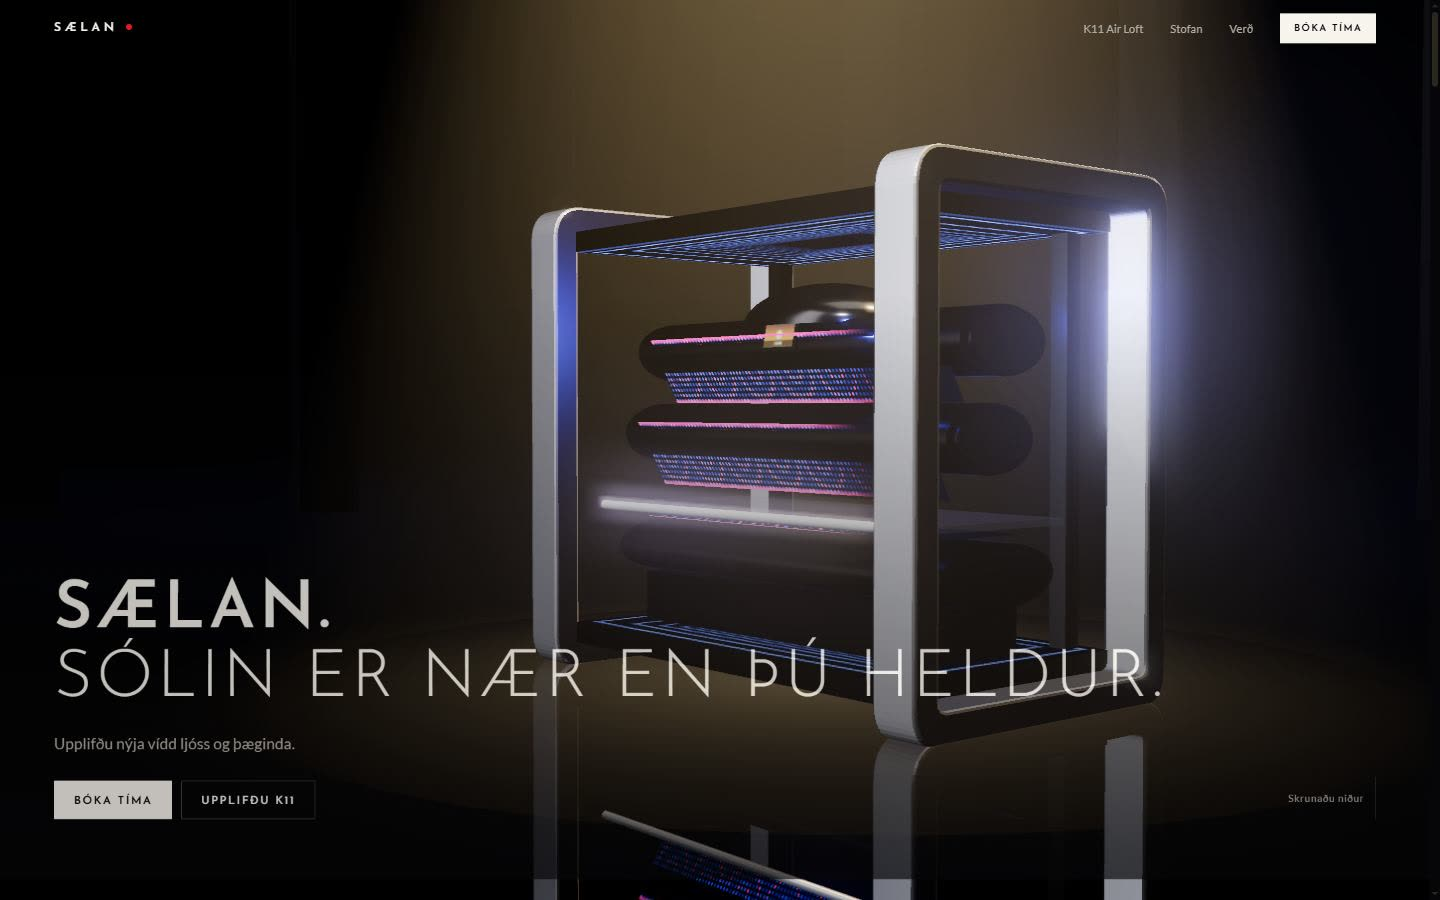
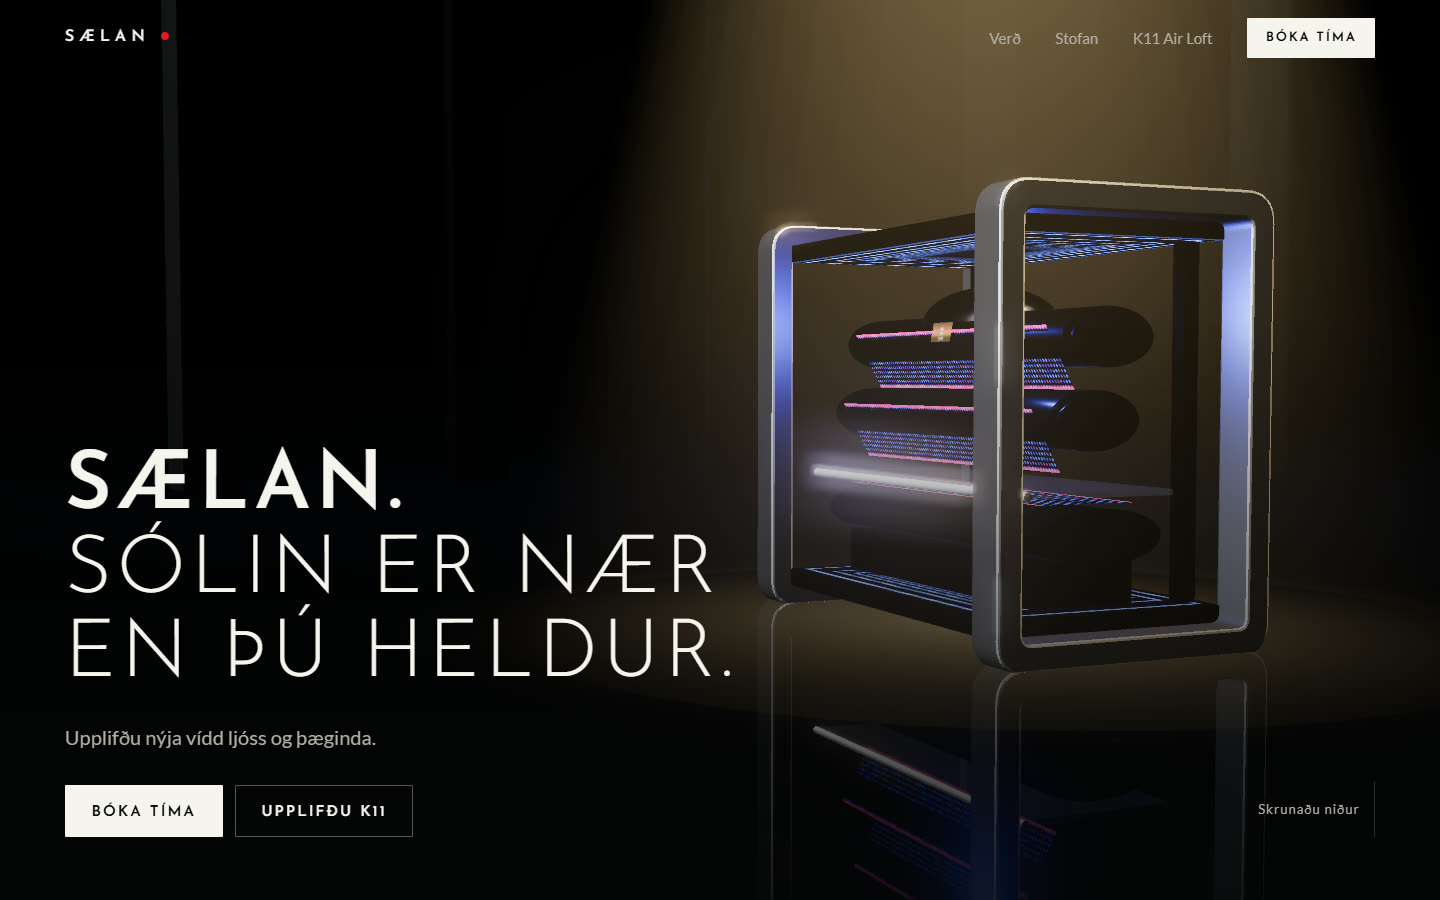
Saelan: ny utgafa af siðunni og ny forskodunarmynd

diff --git a/public/saelan/index.html b/public/saelan/index.html
@@ -56,7 +56,9 @@ html.past .top,html:not(.live) .top{background:rgba(6,6,8,.9)}
 
 main{position:relative;z-index:3}
 .scene{position:relative;min-height:100svh;display:grid;padding:7rem var(--pad) 4rem}
-html.live .stage{height:1000vh}
+html.live .stage-a{height:260vh}
+html.live .stage-b{height:850vh}
+.bridge{text-align:left;padding-bottom:clamp(4rem,9vh,7rem)}
 html.live .scene{position:fixed;inset:0;min-height:0;opacity:0;visibility:hidden;pointer-events:none;will-change:opacity,transform}
 html.live .scene.on{visibility:visible}
 html.live .scene.hit{pointer-events:auto}
@@ -138,50 +140,37 @@ footer a{text-decoration:none}footer a:hover{color:var(--ink);text-decoration:un
 <header class="top">
   <a class="mark" href="#" aria-label="Sælan, forsíða">Sælan<i></i></a>
   <nav aria-label="Aðalvalmynd">
-    <a class="link" href="#k11">K11 Air Loft</a>
-    <a class="link" href="#stofan">Stofan</a>
     <a class="link" href="#verd">Verð</a>
+    <a class="link" href="#stofan">Stofan</a>
+    <a class="link" href="#k11">K11 Air Loft</a>
     <a class="btn primary small" href="https://noona.is/saelansolbadsstofa" rel="noopener">Bóka tíma</a>
   </nav>
 </header>
 
 <main>
-  <div class="stage">
+  <div class="stage stage-a">
     <section class="scene s-hero" data-scene="hero">
       <h1 class="display"><span><b>Sælan.</b></span><span>Sólin er nær en þú heldur.</span></h1>
       <p class="sub">Upplifðu nýja vídd ljóss og þæginda.</p>
       <div class="cta">
         <a class="btn primary" href="https://noona.is/saelansolbadsstofa" rel="noopener">Bóka tíma</a>
-        <a class="btn ghost" href="#k11">Upplifðu K11</a>
+        <a class="btn ghost" href="#ferdalag">Upplifðu K11</a>
       </div>
       <div class="hint" aria-hidden="true">Skrunaðu niður<i></i></div>
     </section>
 
-    <section class="scene s-mid" data-scene="mirror">
-      <h2 class="display">Inn í <b>nýja vídd.</b></h2>
-    </section>
-
-    <section class="scene s-world" data-scene="capri">
-      <h2 class="display">Capri.</h2>
-      <p class="when">Morgunbirtan</p>
-      <p class="fine">Áfangastaðirnir eru myndræn túlkun, innblásin af stillingum K11 Air Loft.</p>
-    </section>
-    <section class="scene s-world" data-scene="hawaii">
-      <h2 class="display">Hawaii.</h2>
-      <p class="when">Birtan</p>
-    </section>
-    <section class="scene s-world" data-scene="hamptons">
-      <h2 class="display">Hamptons.</h2>
-      <p class="when">Sólsetrið</p>
-    </section>
-
-    <section class="scene s-k11" data-scene="k11" id="k11">
-      <h2 class="display"><span><b>K11 Air Loft.</b></span><span>Hönnun á nýju stigi.</span></h2>
-      <p class="detail" id="detail" aria-live="polite"><strong>KBL megaSun K11 Air Loft ALL LED</strong><span>Veldu punkt á bekknum til að skoða nánar.</span></p>
-      <div class="cta"><a class="btn primary" href="https://noona.is/saelansolbadsstofa" rel="noopener">Bóka K11 Air Loft</a></div>
-    </section>
   </div>
 
+  <section class="block book" id="verd">
+    <h2 class="display">Þín stund. <b>Þitt val.</b></h2>
+    <ul class="sessions">
+      <li><span class="min">8<small>mín</small></span><span class="what">Hálfur tími, K11 Air Loft FULL LED</span><span class="kr">2.690 kr.</span></li>
+      <li><span class="min">12<small>mín</small></span><span class="what">Stakur tími, K11 Air Loft FULL LED</span><span class="kr">2.990 kr.</span></li>
+      <li><span class="min">16<small>mín</small></span><span class="what">Einn og hálfur tími, K11 Air Loft FULL LED</span><span class="kr">3.890 kr.</span></li>
+    </ul>
+    <p class="note">10% afsláttur fyrir öryrkja. Verð á öðrum bekkjum, morgunverð og kort eru á <a href="https://saelan.is/" rel="noopener">saelan.is</a>.</p>
+    <div class="cta"><a class="btn primary" href="https://noona.is/saelansolbadsstofa" rel="noopener">Bóka tíma</a></div>
+  </section>
   <section class="block" id="stofan">
     <h2 class="display">Það er alltaf <b>sól og sæla</b> hjá okkur.</h2>
     <p class="lead">Sólbaðsstofan Sælan hefur starfað í yfir 20 ár. Fyrsta stofan opnaði í Bæjarlind 1 árið 2002, önnur í Egilshöll árið 2015, og 1. október 2025 opnuðum við aftur. Í dag erum við í Faxafeni 10 í Skeifunni.</p>
@@ -208,16 +197,36 @@ footer a{text-decoration:none}footer a:hover{color:var(--ink);text-decoration:un
     </div>
   </section>
 
-  <section class="block book" id="verd">
-    <h2 class="display">Þín stund. <b>Þitt val.</b></h2>
-    <ul class="sessions">
-      <li><span class="min">8<small>mín</small></span><span class="what">Hálfur tími, K11 Air Loft FULL LED</span><span class="kr">2.690 kr.</span></li>
-      <li><span class="min">12<small>mín</small></span><span class="what">Stakur tími, K11 Air Loft FULL LED</span><span class="kr">2.990 kr.</span></li>
-      <li><span class="min">16<small>mín</small></span><span class="what">Einn og hálfur tími, K11 Air Loft FULL LED</span><span class="kr">3.890 kr.</span></li>
-    </ul>
-    <p class="note">10% afsláttur fyrir öryrkja. Verð á öðrum bekkjum, morgunverð og kort eru á <a href="https://saelan.is/" rel="noopener">saelan.is</a>.</p>
-    <div class="cta"><a class="btn primary" href="https://noona.is/saelansolbadsstofa" rel="noopener">Bóka tíma</a></div>
+  <section class="block bridge">
+    <h2 class="display">Viltu sjá <b>meira?</b></h2>
+    <p class="lead">Haltu áfram niður og farðu inn í Infinity spegilinn á K11 Air Loft.</p>
   </section>
+
+  <div class="stage stage-b" id="ferdalag">
+    <section class="scene s-mid" data-scene="mirror">
+      <h2 class="display">Inn í <b>nýja vídd.</b></h2>
+    </section>
+
+    <section class="scene s-world" data-scene="capri">
+      <h2 class="display">Capri.</h2>
+      <p class="when">Morgunbirtan</p>
+      <p class="fine">Áfangastaðirnir eru myndræn túlkun, innblásin af stillingum K11 Air Loft.</p>
+    </section>
+    <section class="scene s-world" data-scene="hawaii">
+      <h2 class="display">Hawaii.</h2>
+      <p class="when">Birtan</p>
+    </section>
+    <section class="scene s-world" data-scene="hamptons">
+      <h2 class="display">Hamptons.</h2>
+      <p class="when">Sólsetrið</p>
+    </section>
+
+    <section class="scene s-k11" data-scene="k11" id="k11">
+      <h2 class="display"><span><b>K11 Air Loft.</b></span><span>Hönnun á nýju stigi.</span></h2>
+      <p class="detail" id="detail" aria-live="polite"><strong>KBL megaSun K11 Air Loft ALL LED</strong><span>Veldu punkt á bekknum til að skoða nánar.</span></p>
+      <div class="cta"><a class="btn primary" href="https://noona.is/saelansolbadsstofa" rel="noopener">Bóka K11 Air Loft</a></div>
+    </section>
+  </div>
 </main>
 
 <footer>
@@ -461,15 +470,24 @@ function resize(){ Wd=innerWidth; Hh=innerHeight; aspect=Wd/Hh; renderer.setSize
   if(LITE) bloom.resolution.set(Wd*.5,Hh*.5); F.uRes.value.set(Wd,Hh);
   camera.aspect=aspect; kd=clamp(1.35/aspect,1,2.1); portrait=smooth(1.2,.65,aspect); if(RM) requestAnimationFrame(still); }
 addEventListener('resize',resize);
-const stage=document.querySelector('.stage'); const S={}; document.querySelectorAll('.scene').forEach(el=>S[el.dataset.scene]=el);
+const stageA=document.querySelector('.stage-a'), stageB=document.querySelector('.stage-b'), blocks=[...document.querySelectorAll('.block')]; const SPLIT=.15; let covered=false; const S={}; document.querySelectorAll('.scene').forEach(el=>S[el.dataset.scene]=el);
 function setScene(el,o,dy){ if(el._o===o) return; el._o=o; el.style.opacity=o.toFixed(3); el.classList.toggle('on',o>.002); el.classList.toggle('hit',o>.6); el.style.transform=dy?`translate3d(0,${dy.toFixed(1)}px,0)`:''; }
 let p=0,pS=0,mx=0,my=0,mxS=0,myS=0,past=0;
 const FORCE=new URLSearchParams(location.search).get('p'); // ?p=0.4 pins the journey for review
-function readScroll(){ const total=stage.offsetHeight-innerHeight; if(FORCE!==null){ p=+FORCE; return; } p=clamp(scrollY/Math.max(1,total)); past=clamp((scrollY-total)/innerHeight); root.classList.toggle('past',past>.03); }
+function readScroll(){ if(FORCE!==null){ p=+FORCE; return; }
+  const vh=innerHeight, y=scrollY, endA=stageA.offsetTop+stageA.offsetHeight, offB=stageB.offsetTop, totB=stageB.offsetHeight-vh;
+  if(y<offB-vh*.5){ p=SPLIT*clamp((y-stageA.offsetTop)/Math.max(1,stageA.offsetHeight-vh)); past=0; }
+  else { p=SPLIT+(1-SPLIT)*clamp((y-offB)/Math.max(1,totB)); past=clamp((y-offB-totB)/vh); }
+  covered = y>endA && y+vh<offB;
+  let solid=false; for(const b of blocks){ const r=b.getBoundingClientRect(); if(r.top<64&&r.bottom>64){ solid=true; break; } }
+  root.classList.toggle('past',solid); }
 addEventListener('scroll',readScroll,{passive:true});
 addEventListener('pointermove',e=>{ if(e.pointerType==='touch') return; mx=e.clientX/Wd*2-1; my=e.clientY/Hh*2-1; },{passive:true});
-document.querySelectorAll('a[href="#k11"]').forEach(a=>a.addEventListener('click',e=>{ if(!root.classList.contains('live')) return; e.preventDefault(); scrollTo({top:.93*(stage.offsetHeight-innerHeight),behavior:'smooth'}); }));
+const jump=(sel,P)=>document.querySelectorAll(sel).forEach(a=>a.addEventListener('click',e=>{ if(!root.classList.contains('live')) return; e.preventDefault();
+  scrollTo({top:stageB.offsetTop+(P-SPLIT)/(1-SPLIT)*(stageB.offsetHeight-innerHeight),behavior:'smooth'}); }));
+jump('a[href="#k11"]',.93); jump('a[href="#ferdalag"]',SPLIT+.005);
 
+let wake0=null;
 const tmp=new THREE.Vector3(), tgt=new THREE.Vector3(), cpos=new THREE.Vector3(), up=new THREE.Vector3();
 function update(t,dt){
   pS+=(p-pS)*(RM?1:1-Math.exp(-dt*5)); mxS+=(mx-mxS)*(1-Math.exp(-dt*3)); myS+=(my-myS)*(1-Math.exp(-dt*3));
@@ -483,16 +501,17 @@ function update(t,dt){
 
   if(machine){
     const back=P>.5;
-    const on=back?1:smooth(.015,.09,P);
-    U.uOn.value=on; beamU.uA.value=(back?.75*smooth(.855,.9,P):smooth(0,.05,P)*(1-smooth(.08,.15,P)))*(1-fxA);
-    spot.intensity=(back?60:smooth(.01,.08,P)*60); blueL.intensity=on*2.4; keyL.intensity=on*1.5;
-    const rot=back ? -.5+Math.sin(T*.18)*.22*(1-focusF) : kf(P,[[0,-1.5],[.09,-.52],[.17,-.2],[.21,0]]);
+    if(wake0===null) wake0=t; const wake=RM?1:smooth(.2,2.6,t-wake0); // the machine wakes on arrival, not on scroll
+    const on=back?1:Math.max(wake,smooth(.008,.05,P));
+    U.uOn.value=on; beamU.uA.value=(back?.75*smooth(.855,.9,P):Math.max(smooth(0,1.2,t-wake0),smooth(0,.03,P))*(1-smooth(.05,.11,P)))*(1-fxA);
+    spot.intensity=(back?60:Math.max(wake,smooth(.005,.04,P))*60); blueL.intensity=on*2.4; keyL.intensity=on*1.5;
+    const rot=back ? -.5+Math.sin(T*.18)*.22*(1-focusF) : kf(P,[[0,-1.0],[.06,-.55],[.15,-.05],[.21,0]]);
     rig.rotation.y=rot+mxS*.12*(1-fxA); mirrorRig.rotation.y=rig.rotation.y;
     let cp,tg,upz=0;
     if(!back){
-      cp=kf(P,[[0,[0,1.35,8.8*kd]],[.10,[.5,1.25,6.6*kd]],[.165,[.2,1.5,2.5]],[.2,[0,1.84,.95]],[.235,[0,1.93,.02]]]);
-      tg=kf(P,[[0,[-1.5*(1-portrait),.95-portrait*.5,0]],[.10,[0,1.15,0]],[.165,[0,1.85,0]],[.2,[0,2.04,.1]],[.235,[0,2.05,0]]]);
-      upz=smooth(.17,.215,P);
+      const k2=Math.min(kd,1.5); cp=kf(P,[[0,[0,1.35,8.8*kd]],[.06,[-1.4,1.5,5.4*kd]],[.15,[1.5,1.32,3.3*k2]],[.185,[.2,1.5,2.5]],[.2,[0,1.84,.95]],[.235,[0,1.93,.02]]]);
+      tg=kf(P,[[0,[-1.5*(1-portrait),.95-portrait*.5,0]],[.06,[-.5*(1-portrait),1.15,0]],[.15,[.15,1.12,0]],[.185,[0,1.85,0]],[.2,[0,2.04,.1]],[.235,[0,2.05,0]]]);
+      upz=smooth(.185,.215,P);
     } else {
       const wide=1-portrait;
       cp=kf(P,[[.80,[0,1.93,.02]],[.845,[0,1.7,1.6]],[.9,[-.5,1.45,7.4*kd]]]);
@@ -525,8 +544,8 @@ function update(t,dt){
 
   /* DOM */
   if(!RM){
-    setScene(S.hero,1-smooth(.045,.095,P),-smooth(0,.095,P)*40);
-    setScene(S.mirror,win(P,.165,.195,.255,.295));
+    setScene(S.hero,1-smooth(.03,.07,P),-smooth(0,.07,P)*40);
+    setScene(S.mirror,win(P,.18,.2,.255,.295));
     setScene(S.capri,win(P,.37,.395,.43,.455),(1-smooth(.37,.395,P))*24);
     setScene(S.hawaii,win(P,.515,.535,.56,.585),(1-smooth(.515,.535,P))*24);
     setScene(S.hamptons,win(P,.65,.67,.695,.72),(1-smooth(.65,.67,P))*24);
@@ -541,7 +560,7 @@ if(RM){ still(); return; }
 root.classList.add('live'); readScroll(); pS=p;
 let last=performance.now(), first=true;
 function frame(now){ requestAnimationFrame(frame); if(document.hidden){ last=now; return; }
-  const dt=Math.min(.05,(now-last)/1000); last=now; update(now/1000,dt); composer.render();
+  const dt=Math.min(.05,(now-last)/1000); last=now; update(now/1000,dt); if(!covered) composer.render();
   if(first){ first=false; root.classList.add('ready'); } }
 requestAnimationFrame(frame);
 window.__s={ get p(){return pS;} };
